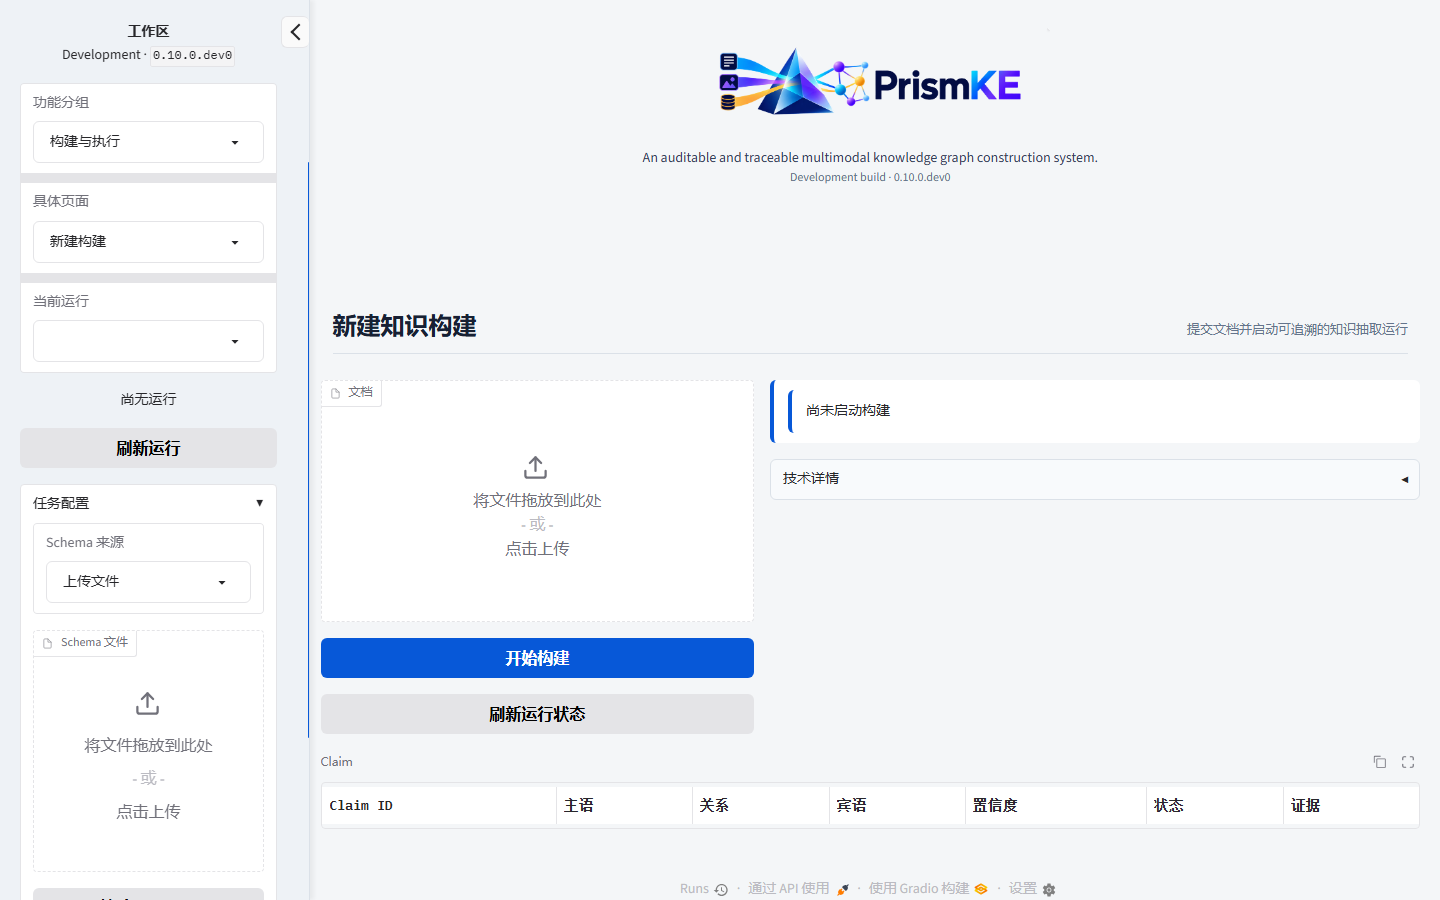
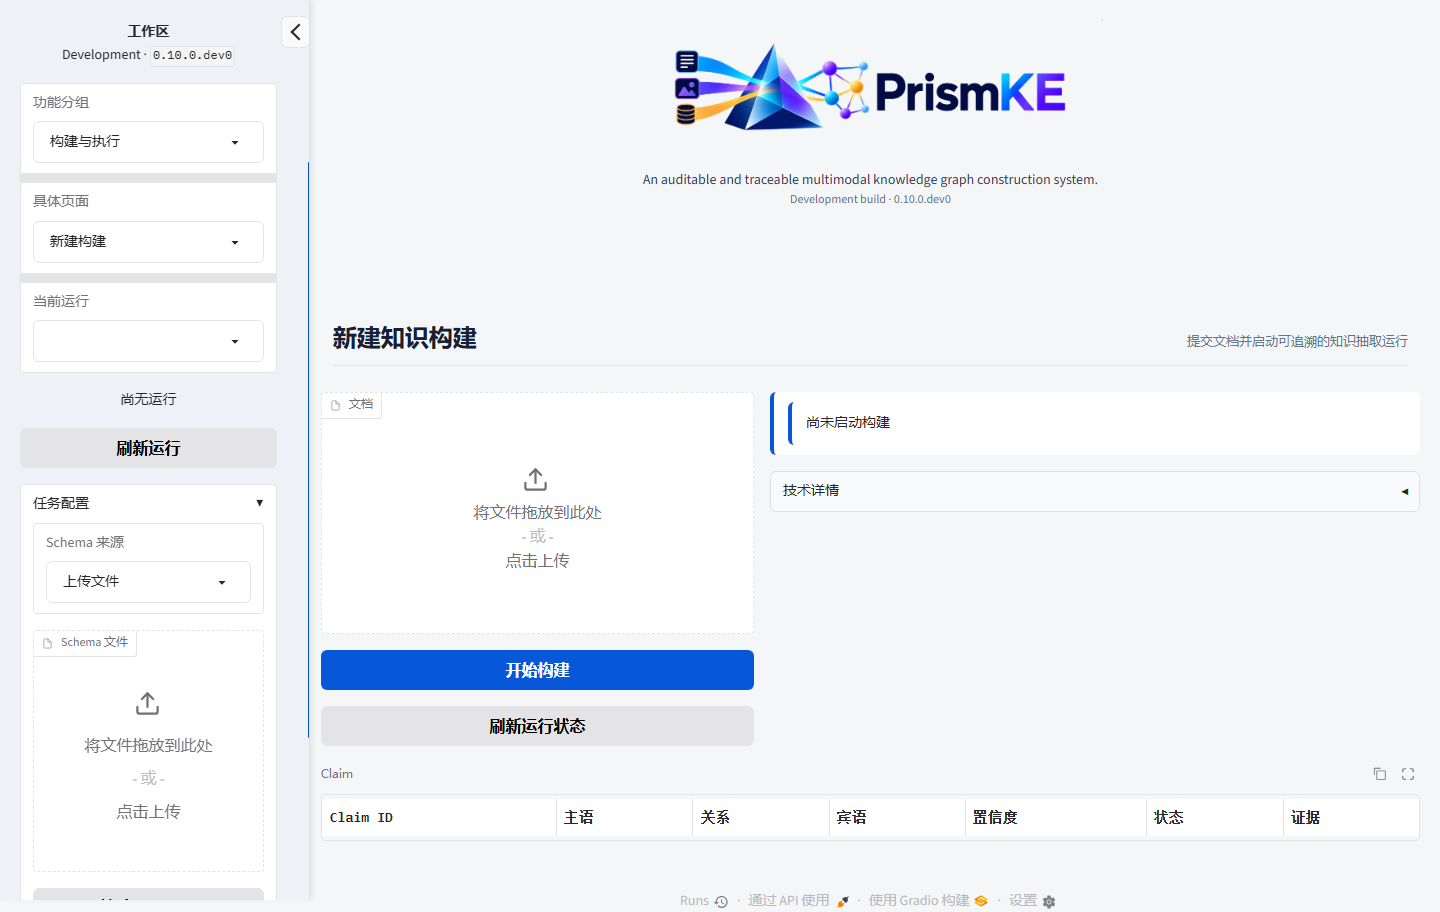
docs: record v0.10 frontend defaults acceptance

diff --git a/docs/PrismKE-v0.10前端视觉验收.md b/docs/PrismKE-v0.10前端视觉验收.md
@@ -15,8 +15,12 @@
 - 所有单选审核动作、纠正动作和未知请求核对结论均改为 `Dropdown`；二元确认继续使用 `Checkbox`。
 - Schema 可选择“上传文件”或“文本输入”；JSON/YAML 文本先经领域模型校验，再在忽略的运行目录生成规范 JSON 快照与哈希。
 - LLM/VLM 模型别名为文本输入，默认 `qwen3.7-flash`；Base URL 保持文本输入。API Key 使用密码框，不回显、不持久化，一次执行尝试结束后从服务进程内存清除。
-- OCR 默认“中英混合”，底层映射 PaddleOCR `ch`；另可选“英文”。配置操作者默认为“管理员”。
+- “高级策略”默认展开；Web 新建运行默认启用 Reflection，Reflection 与治理/融合语义建议 Provider 均为 `openai-compatible`，单候选最多修复 2 次，单运行预算为 20,000 Token/180 秒，Agent 建议预算为 20,000 Token。页面明确提示该策略会产生额外模型调用；CLI、API 和应用服务的既有默认关闭语义不变。
+- OCR 语言固定为“中英混合、英文、中文”三项。`mixed`、`zh` 和历史值 `ch` 均映射 PaddleOCR `ch`，不删除英文内容；`en` 映射 PaddleOCR `en`。配置操作者默认为“管理员”。
+- OCR 设备默认 `auto`。自动模式使用 Paddle 自身的 CUDA 编译状态和可见设备数解析为 `gpu:0` 或 `cpu`；缺少 Paddle、CPU 版 Paddle、无卡或检测异常时安全回退 CPU。显式 `cpu/gpu:0` 不被覆盖，Provider 指纹记录实际设备与实际 Paddle 语言。
+- “模型与图存储”增加 Neo4j 密码框、显式清除复选框和配置状态。密码框始终为空，新密码仅写入权限为 `600` 的私有运行时覆盖文件；空值保持原配置，同时设置和清除会被拒绝。
 - 右侧顶部品牌区在所有任务间共用且不吸顶；任务页统一为标题栏、状态摘要、主要操作区和默认收起的技术详情。
+- Logo 桌面 CSS 上限为 `468×140px`，移动端为 `325×109px` 并受 `84vw` 限制；三种验收视口均保持原比例且没有页面级横向溢出。
 - 手机端侧栏作为抽屉默认收起，左上角保留展开按钮；桌面和平板默认展开。
 
 ## 代表性截图
@@ -41,15 +45,17 @@
 |---|---|
 | Ruff | 通过 |
 | Mypy | 99 个源码文件通过 |
-| 本地完整 pytest | 331 项通过，21 项按环境条件跳过 |
-| 前端结构测试 | 15 个页面唯一覆盖；无 `Radio` 组件；密钥框类型为 `password` 且默认值为空 |
+| 本地完整 pytest | 343 项通过，21 项按环境条件跳过 |
+| 前端结构测试 | 15 个页面唯一覆盖；无 `Radio` 组件；LLM/VLM/Neo4j 密钥框均为 `password` 且默认值为空 |
 | Playwright | 4 项通过；`1440×900`、`820×1180`、`390×844` 通过 |
 | 页面导航 | 15 个页面逐页可达，标题与路由一致 |
 | 页面溢出 | 三种视口均无页面级横向溢出 |
-| Logo | 三种视口均非空，保持比例；移动端最大宽度 250px |
+| Logo | 三种视口均非空并保持比例；桌面可见宽度 420px，移动端不超过 325px/84vw |
+| OCR 配置 | GPU Paddle、CPU Paddle、无 GPU、未安装及检测异常均有测试；服务器无卡环境 `auto` 实际解析为 `cpu` |
+| Neo4j 密码 | 设置、保持、显式清除、冲突输入、权限 `600` 和审计脱敏均通过；设置接口只返回布尔配置状态 |
 | wheel 构建 | `frontend` 与指定 4K Logo 均包含，原始 Logo 未打包 |
 | wheel 安装 | 全新虚拟环境中可导入前端并解析 Logo |
-| 服务器完整 pytest | 344 项通过，8 项按环境条件跳过 |
+| 服务器完整 pytest | 356 项通过，8 项按环境条件跳过 |
 | 服务器隔离 Neo4j | 102 项通过，测试实例在结束后停止 |
 
 本地和服务器完整测试中的跳过项包括需要专用 Neo4j、外部模型或特定平台条件的用例；它们没有被伪装成通过。服务器无卡验收显式使用 `embedding=disabled`、`device=cpu` 和独立 JSON 图存储，避免读取开发服务器 `.env` 中的真实 BGE-M3/CUDA 配置。专用 Neo4j 测试只连接 `127.0.0.1:17687`，并验证了独立数据目录和测试实例标记。
@@ -59,6 +65,8 @@
 - `/ui/`、`prismke serve`、FastAPI 路由和现有应用服务保持兼容。
 - 页面切换仅改变显示容器，不创建运行、不触发模型调用，也不清空当前运行或表单状态。
 - 会话密钥仅在执行期间短暂保存于服务进程内存，不进入 `WorkflowState`、检查点、运行数据库、日志或 API 响应。执行结束、服务重启或恢复时缺少密钥，会以 `CREDENTIAL_REQUIRED` 阻断，不自动重试。
+- Web 的 Reflection 和语义建议虽然默认开启，但缺少 LLM Key 时会在派发模型请求前以 `CREDENTIAL_REQUIRED` 阻断，不静默降级或自动关闭策略。
+- Neo4j 密码使用独立的私有运行时覆盖文件持久化，API、HTML 初始配置、日志和审计均不返回密码值；修改后提示重启图存储，不热切换已建立的连接。
 - 完整 JSON、请求细节和低频危险操作默认收起；向量、密钥和密码不进入主要视图。
 - Logo 安装包规则精确到 `prismke-logo-4k.png`，不会自动纳入同目录其他图片。
 - 本轮仍是 `0.10.0.dev0` 开发验收，不代表 v0.10.0 已发布。
